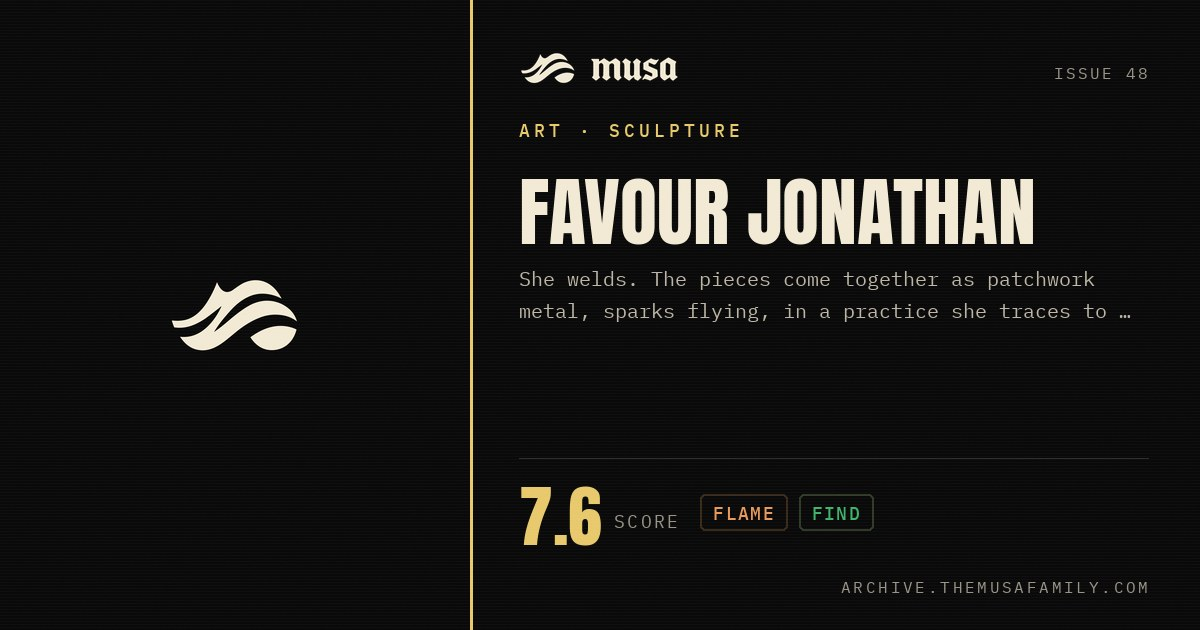
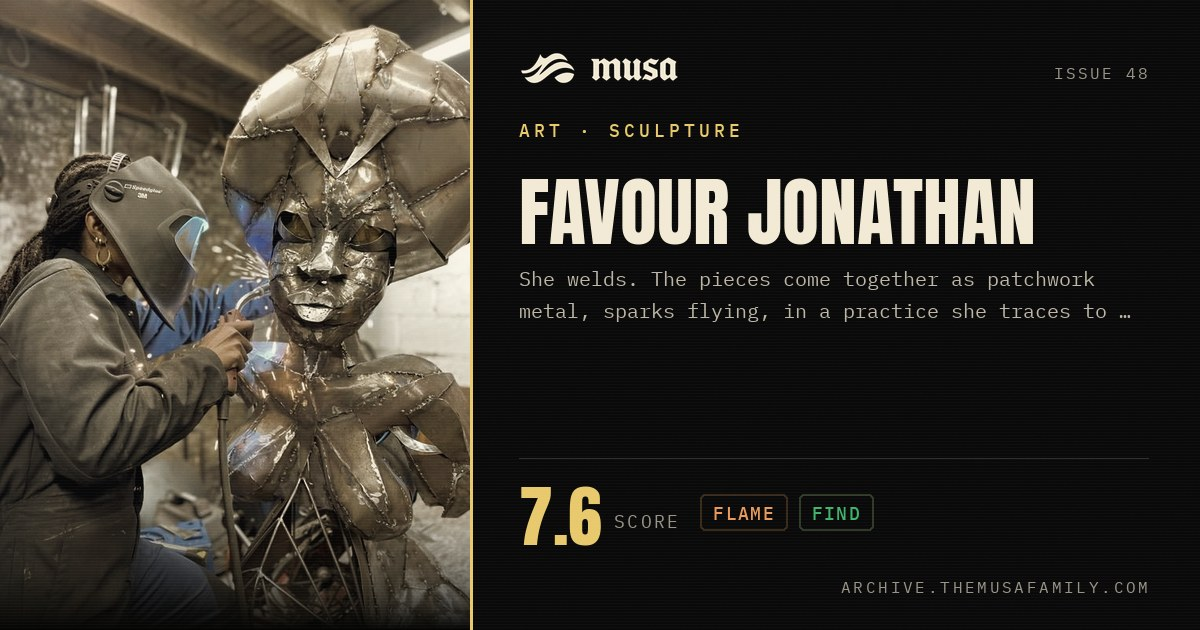
index: issue 48 — real artwork for Favour Jonathan entry

diff --git a/i/favour-jonathan/index.html b/i/favour-jonathan/index.html
@@ -131,7 +131,7 @@ footer b{font-family:var(--mono);font-size:9px;color:#b8b09c;letter-spacing:.2em
 </header>
 <div class="eyebrow">ISSUE 48 &nbsp;·&nbsp; <span class="a">AUG 2 2026</span> &nbsp;·&nbsp; ART · SCULPTURE</div>
 <h1>Favour Jonathan</h1>
-<figure class="art"><img src="https://archive.themusafamily.com/img/musa-mark.png" alt="Favour Jonathan" loading="lazy" style="height:320px;object-fit:contain;background:#0a0a0a" onerror="this.onerror=null;this.src='https://archive.themusafamily.com/img/musa-mark.png';this.style.objectFit='contain';this.style.background='#0a0a0a'"></figure>
+<figure class="art"><img src="https://archive.themusafamily.com/img/entries/favour-jonathan.jpg" alt="Favour Jonathan" loading="lazy" onerror="this.onerror=null;this.src='https://archive.themusafamily.com/img/musa-mark.png';this.style.objectFit='contain';this.style.background='#0a0a0a'"></figure>
 <div class="read">She welds. The pieces come together as patchwork metal, sparks flying, in a practice she traces to the Idumwun-igun-nugboha guild families on Sakpomba Road in Benin City, where she grew up. Her Central Saint Martins degree piece, Ododo and Divinity, a standing female figure with a leopard, went into the school&#x27;s permanent archive. In 2022 she built a fourteen-metre public sculpture of Ira Aldridge for the National Collection Centre in Coventry, and a memorial to Claudia Jones at the Black Cultural Archives in Brixton. This spring she was one of ten Edo artists in Back to Benin at Museum de Fundatie in Zwolle, an exhibition whose founding act was the museum returning its only Benin plaque to Oba Ewuare II in November 2025. Public commissions at that scale, an archive acquisition, and still no gallery representation.</div>
 <div class="rail">
   <span class="sc">7.6<small>SCORE</small></span>
